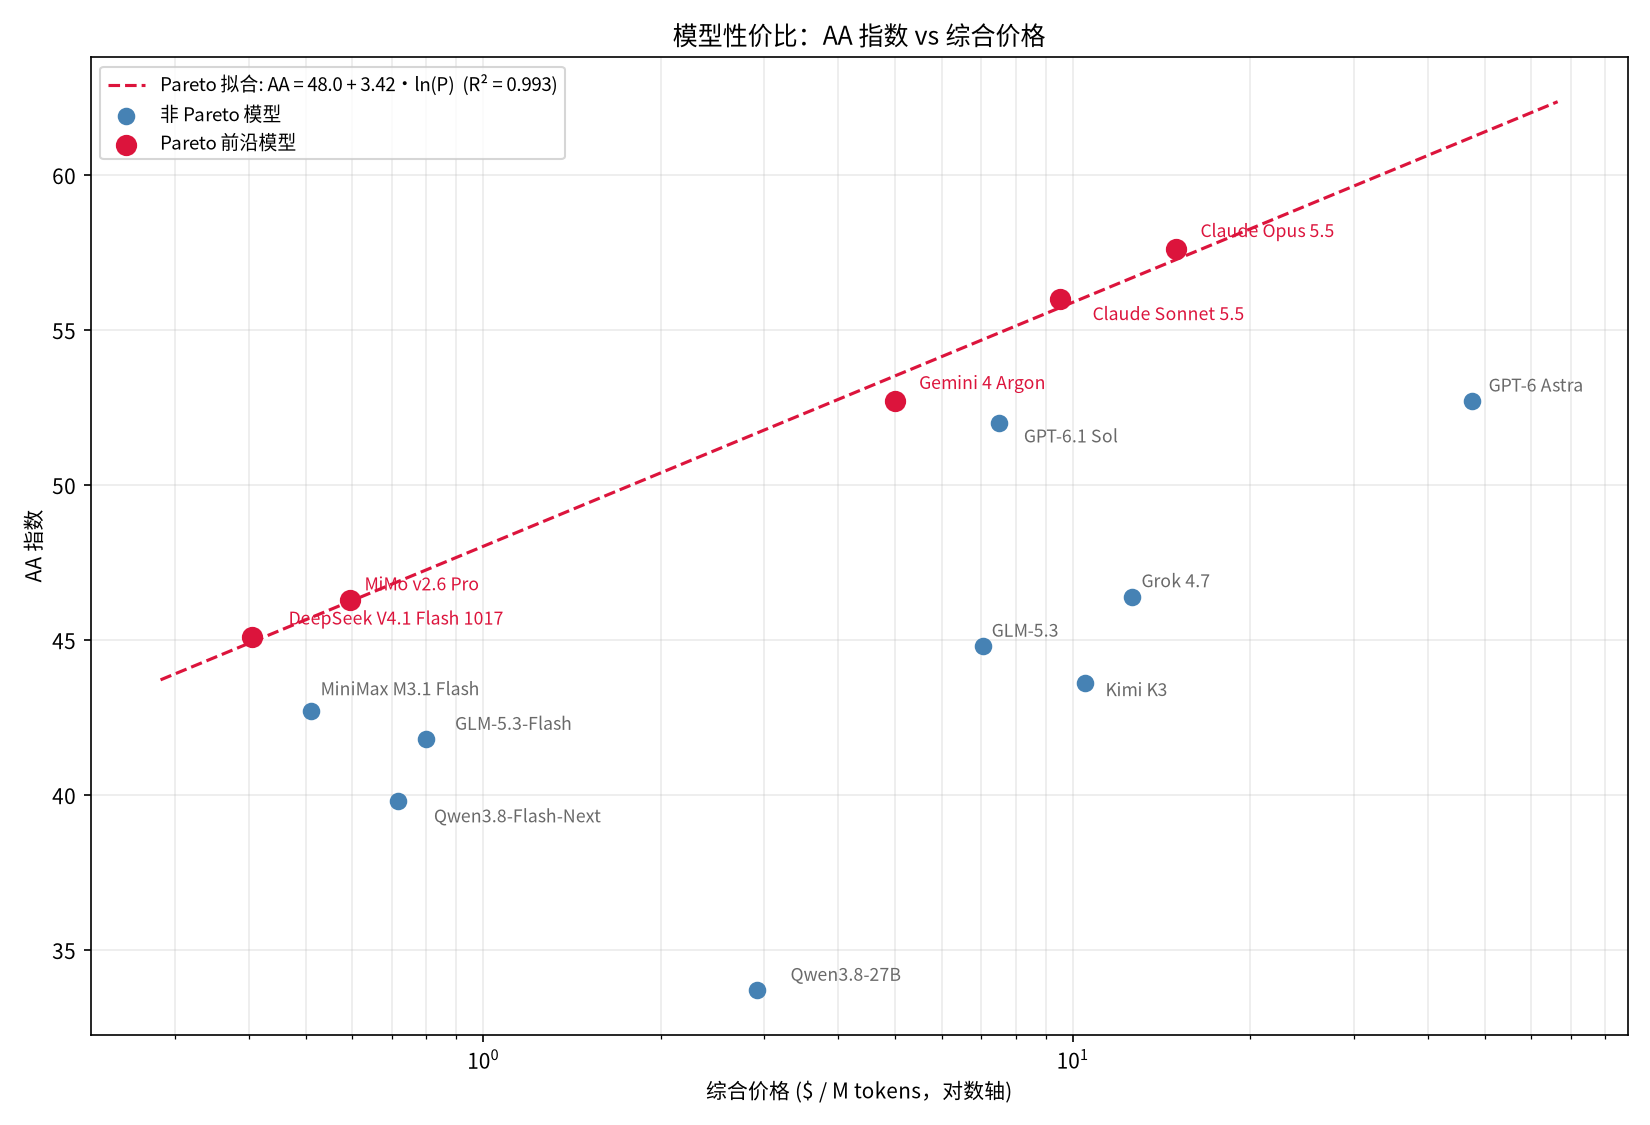
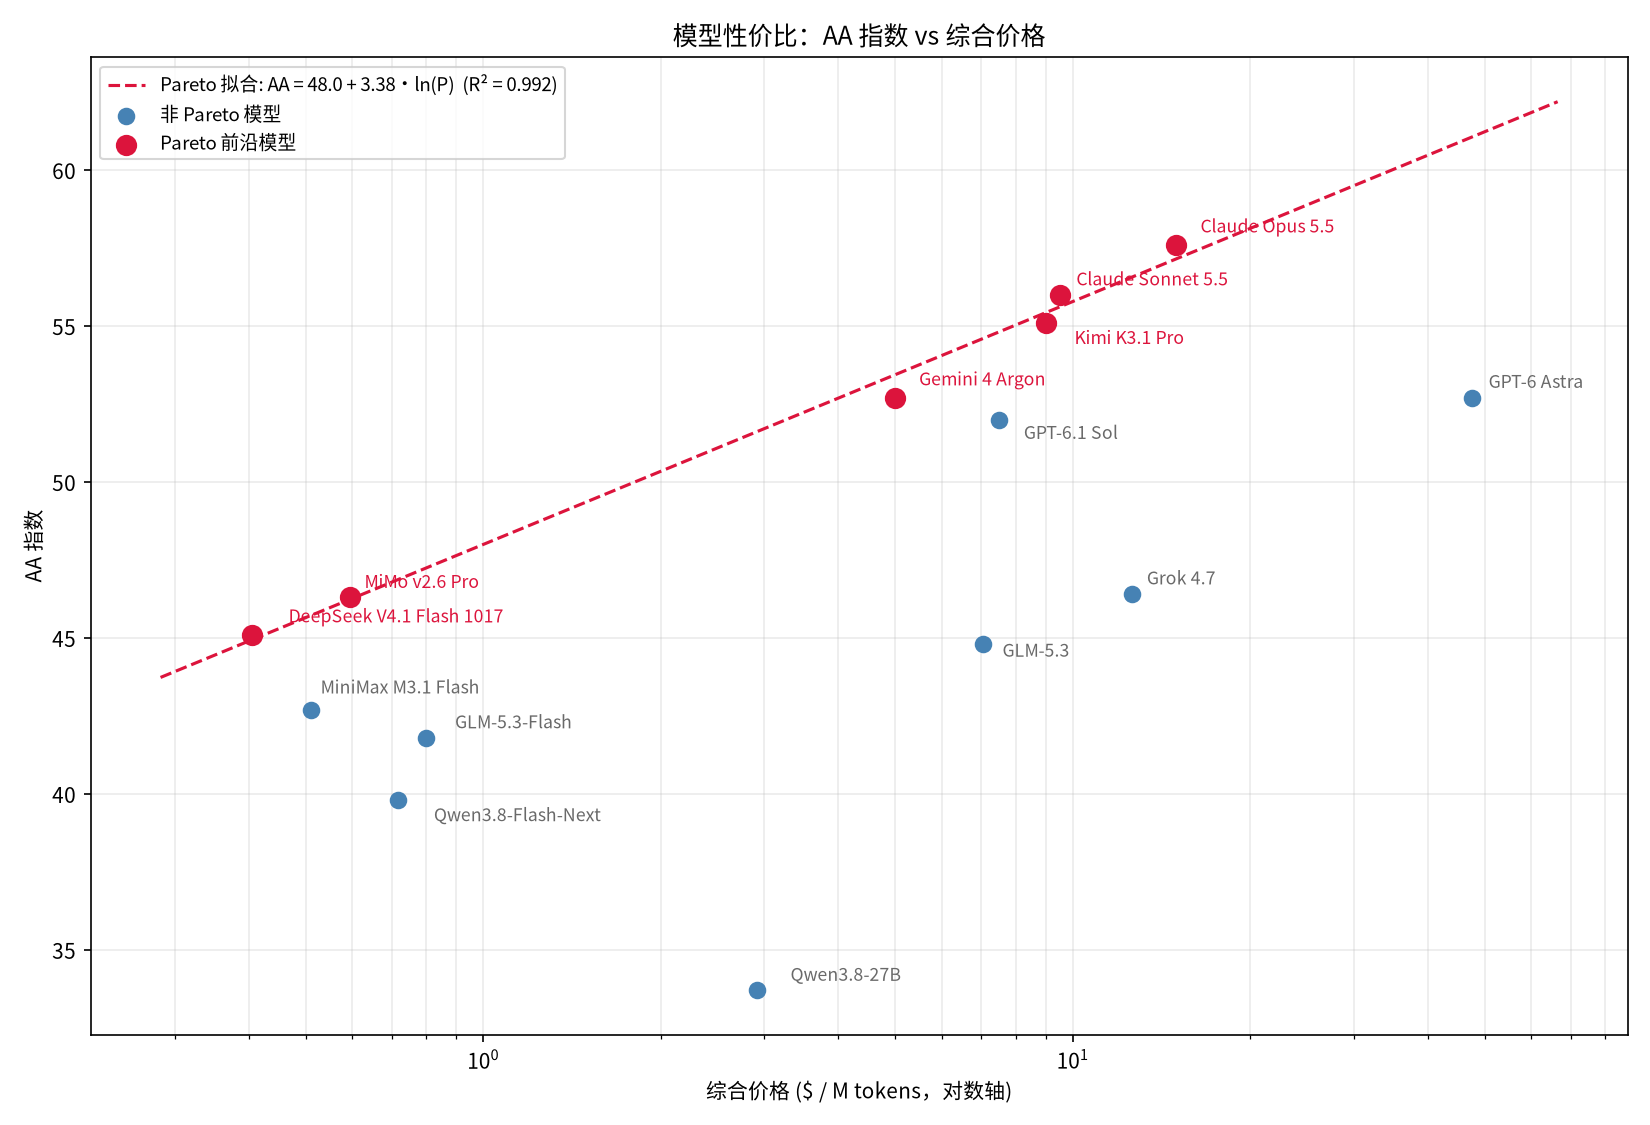
docs(comparison): replace Kimi K3 with K3.1 Pro and refresh value chart

diff --git a/comparison/plot_price_vs_aa.py b/comparison/plot_price_vs_aa.py
@@ -15,7 +15,7 @@ data = {
     "Claude Sonnet 5.5": (9.5, 56.0),
     "Gemini 4 Argon": (5, 52.7),
     "Grok 4.7": (12.6, 46.4),
-    "Kimi K3": (10.5, 43.6),
+    "Kimi K3.1 Pro": (9, 55.1),
     "MiMo v2.6 Pro": (0.594, 46.3),
     "GLM-5.3": (7.04, 44.8),
     "DeepSeek V4.1 Flash 1017": (0.405, 45.1),

diff --git a/comparison/README.md b/comparison/README.md
@@ -3,7 +3,7 @@
 数据收纳几类模型：
 
 1. 闭源最强大模型。两个：Claude Opus 5.5和Claude Sonnet 5.5。
-2. 开源最强大模型。两个：MiMo v2.6 Pro和GLM-5.3。
+2. 开源最强大模型。两个：MiMo v2.6 Pro和Kimi K3.1 Pro。
 3. 个人低成本独立部署。一个：Qwen3.8-27B。
 4. 公司可离线部署。两个：GLM-5.3-Flash和Qwen3.8-Flash-Next。
 5. 可执行任务廉价模型。两个：DeepSeek V4.1 Flash 1017和MiniMax M3.1 Flash。
@@ -24,7 +24,7 @@
 | [Claude Sonnet 5.5](https://www.anthropic.com/claude-sonnet-5-5) | 2026-09-28 | 闭 | -- | -- | V | 1M | -- |
 | [Gemini 4 Argon](https://blog.google/intl/zh-tw/products/explore-get-answers/gemini-4-argon/) | 2026-09-30 | 闭 | -- | -- | V/A | 1M | -- |
 | [Grok 4.7](https://x.ai/news/grok-4-7) | 2026-09-21 | 闭 | -- | -- | V | 500k | -- |
-| [Kimi K3](https://www.kimi.com/blog/kimi-k3) | 2026-07-16 | 开 | 2.8T | 104B | V | 1M | [权重](https://huggingface.co/moonshotai/Kimi-K3) · [GGUF](https://huggingface.co/unsloth/Kimi-K3-GGUF) |
+| [Kimi K3.1 Pro](https://www.kimi.ai/blog/kimi-k3-1-pro) | 2026-10-24 | 开 | 2.8T | 104B | V | 1M | 尚未释出，11 月 4 日前发布权重 |
 | [MiMo v2.6 Pro](https://mimo.mi.com/docs/zh-CN/news/latest/v2-6) | 2026-09-21 | 开 | 1.02T | 42B | V/A | 1M | [权重](https://huggingface.co/XiaomiMiMo/MiMo-V2.6-Pro-RL) |
 | [GLM-5.3](https://z.ai/blog/glm-5.3) | 2026-08-14 | 开 | 744B | 40B | -- | 1M | [权重](https://huggingface.co/zai-org/GLM-5.3) · [GGUF](https://huggingface.co/unsloth/GLM-5.3-GGUF) |
 | [GLM-5.3-Flash](https://z.ai/blog/glm-5.3-flash) | 2026-08-26 | 开 | 320B | 18B | V | 1M | [权重](https://huggingface.co/zai-org/GLM-5.3-Flash) · [GGUF](https://huggingface.co/unsloth/GLM-5.3-Flash-GGUF) |
@@ -42,27 +42,27 @@
 
 | 模型 | 输入价格 | 输出价格 | 缓存读取 | 缓存写入 | 综合价格 | 性价比 |
 |---|---:|---:|---:|---:|---:|---:|
-| GPT-6 Astra | \$10 | \$50 | \$1 | \$12.5 | \$47.5 | 85.6% |
-| GPT-6.1 Sol | \$2 | \$10 | \$0.1 | \$2.5 | \$7.5 | 94.2% |
+| GPT-6 Astra | \$10 | \$50 | \$1 | \$12.5 | \$47.5 | 85.7% |
+| GPT-6.1 Sol | \$2 | \$10 | \$0.1 | \$2.5 | \$7.5 | 94.1% |
 | Claude Opus 5.5 | \$4 | \$20 | \$0.2 | \$5 | \$15 | **100.0%** |
 | Claude Sonnet 5.5 | \$2 | \$10 | \$0.2 | \$2.5 | \$9.5 | **99.9%** |
 | Gemini 4 Argon | \$2 | \$10 | \$0.1 | -- | \$5 | **97.9%** |
 | Grok 4.7 | \$2 | \$6 | \$0.5 | -- | \$12.6 | 81.4% |
-| Kimi K3 | \$3 | \$15 | \$0.3 | -- | \$10.5 | 77.3% |
-| MiMo v2.6 Pro | \$0.435 | \$0.87 | \$0.0036 | -- | \$0.594 | **99.6%** |
-| GLM-5.3 | \$1.4 | \$4.4 | \$0.26 | -- | \$7.04 | 81.5% |
-| GLM-5.3-Flash | \$0.15 | \$0.5 | \$0.03 | -- | \$0.8 | 88.0% |
-| DeepSeek V4.1 Flash 1017 | \$0.30 / \$0.15 | \$1.20 / \$0.60 | \$0.006 / \$0.003 | -- | \$0.405 | **99.8%** |
-| MiniMax M3.1 Flash | \$0.15 | \$0.60 | \$0.015 | -- | \$0.51 | 92.9% |
-| Qwen3.8-Flash-Next | \$0.15 | \$0.47 | \$0.016 | \$0.2 | \$0.717 | 84.4% |
-| Qwen3.8-27B | \$0.425 | \$2.55 | \$0.085 | \$0.53125 | \$2.91125 | 64.9% |
+| Kimi K3.1 Pro | \$2 | \$10 | \$0.2 | \$2 | \$9 | **98.6%** |
+| MiMo v2.6 Pro | \$0.435 | \$0.87 | \$0.0036 | -- | \$0.594 | **99.4%** |
+| GLM-5.3 | \$1.4 | \$4.4 | \$0.26 | -- | \$7.04 | 81.4% |
+| GLM-5.3-Flash | \$0.15 | \$0.5 | \$0.03 | -- | \$0.8 | 87.8% |
+| DeepSeek V4.1 Flash 1017 | \$0.30 / \$0.15 | \$1.20 / \$0.60 | \$0.006 / \$0.003 | -- | \$0.405 | **99.6%** |
+| MiniMax M3.1 Flash | \$0.15 | \$0.60 | \$0.015 | -- | \$0.51 | 92.7% |
+| Qwen3.8-Flash-Next | \$0.15 | \$0.47 | \$0.016 | \$0.2 | \$0.717 | 84.3% |
+| Qwen3.8-27B | \$0.425 | \$2.55 | \$0.085 | \$0.53125 | \$2.91125 | 64.8% |
 
 - 不参考套餐/批量折扣/限时优惠价格，表中采用官方原价。
 - 综合价格按“0.1 × 输出价格 + 输入价格 + 20 × 缓存读取价格 + 缓存写入价格”计算。未提供缓存写入价格的 `--` 在本项计算中按 0 计。它表示实际载荷每处理 1M 输入 tokens 对应的真实成本：与这 1M 输入对应的输出、缓存读取和缓存写入量，分别按实际比例乘以各自单价后，与输入成本相加。
 - 有峰谷价格的，综合价格按峰谷价的平均数计算。
 - Gemini 4 Argon 采用 Google 公告中的优惠期价格。优惠期结束后，输入/输出价格恢复为 \$4/\$20。
 - Grok 4.7 的 prompt ≥200K 长文档位（输入/输出/缓存读取翻倍）与 2 倍价格的 fast 变体均未计入，综合价格按 <200K 标准档计算。
-- 性价比从当前表中选出“相同或更低综合价格下不存在更高 AA 指数模型”的 5 个 Pareto 前沿模型，拟合得到 `预期 AA 指数 = 48.0240 + 3.4175 × ln(综合价格)`（R² = 0.993），最后计算“实际 AA 指数 / 预期 AA 指数 × 99.4424%”。该系数为当前模型集合中最高原始性价比的倒数，使最高分恰为 100%；其余分数均落在 0–100% 区间。该拟合是当前模型集合内的相对比较，模型或价格变化后需要重新筛选 Pareto 前沿并整体重算。
+- 性价比从当前表中选出“相同或更低综合价格下不存在更高 AA 指数模型”的 6 个 Pareto 前沿模型，拟合得到 `预期 AA 指数 = 47.9951 + 3.3821 × ln(综合价格)`（R² = 0.992），最后计算“实际 AA 指数 / 预期 AA 指数 × 99.2260%”。该系数为当前模型集合中最高原始性价比的倒数，使最高分恰为 100%；其余分数均落在 0–100% 区间。该拟合是当前模型集合内的相对比较，模型或价格变化后需要重新筛选 Pareto 前沿并整体重算。
 - Pareto模型的性价比已经被加粗。
 - 价格-AA 关系图（横轴为对数综合价格，纵轴为 AA 指数，红点为 Pareto 前沿模型，红色虚线为 Pareto 拟合线）：
 
@@ -90,7 +90,7 @@
 | Claude Sonnet 5.5 (with fallback) | 61.0% | 63.6% | 71.3% | 64.5% | 31.4% | 56.0% |
 | Gemini 4 Argon | 61.8% | 57.1% | 77.5% | 57.1% | 27.1% | 52.7% |
 | Grok 4.7 | 57.4% | 24.7% | 63.5% | 43.1% | 17.7% | 46.4% |
-| Kimi K3 | 59.5% | 12.6% | 58.3% | 46.9% | 23.4% | 43.6% |
+| Kimi K3.1 Pro | 60.8% | 67.2% | 73.3% | 52.5% | 24.6% | 55.1% |
 | MiMo v2.6 Pro | 61.0% | 34.8% | 58.6% | 49.0% | 27.0% | 46.3% |
 | GLM-5.3 | 59.0% | 41.9% | 62.2% | 42.3% | 19.1% | 44.8% |
 | GLM-5.3-Flash | 51.6% | 32.8% | 60.4% | 39.9% | 15.0% | 41.8% |
@@ -99,7 +99,7 @@
 | Qwen3.8-Flash-Next | 50.6% | 25.3% | 55.9% | 38.0% | 11.1% | 39.8% |
 | Qwen3.8-27B | 46.6% | 5.6% | 48.2% | 33.9% | 5.4% | 33.7% |
 
-- 数据更新日期：2026-10-20；AA 指数版本：v4.3.2。表中 AA 指数保留一位小数。
+- 数据更新日期：2026-10-24；AA 指数版本：v4.3.2。表中 AA 指数保留一位小数。
 - MiniMax M3.1 Flash 的 SciCode 和 CritPt 当前标为 Under review。
 - 数据优先采用AA独立评测，其次采用官方模型卡/报告。两者均不存在时，参考采信第三方评价或官方估计值。
 - 闭源推理模型使用表中成绩对应的高推理档位；Claude Opus 5.5 的 AA 评测启用了默认 fallback，因此单独标注。
@@ -113,14 +113,15 @@
 - Grok被吐槽“只有NSFW是刚需”。而且这批人还在流向Qwen3.8-27B。
 - 开源里面，MiMo v2.6 Pro中评偏差。评价是“性价比高跑分漂亮，然而不能干活儿”。
 - GLM-5.3/GLM-5.3-Flash好评。前者便宜，后者可本地部署。缺点是不知为何，坚信自己是claude。
-- K3评价两极分化。主要优点是细节封神，主要缺点是贵且慢。
+- K3 评价两极分化，主要优点是细节封神，主要缺点是贵且慢；Kimi K3.1 Pro 的用户反馈待收集。
 - DeepSeek V4.1 Flash也是两极分化。速度封神，编码拉胯。而且啰里八嗦的。
 - Qwen3.8-Flash-Next意外的强。但只有一个供应商。
 - Qwen3.8-27B，低成本本地执行的唯一选择，也无需在意评价了。
 
 # 点评
 
-- 最强阵营里，Argon/Sonnet/Opus在性价比线上完美平行排列，形成一系列选择。OpenAI这边是全面拉胯。
-- 第二集群里，传统的K3/GLM-5.3逐渐被廉价模型反超。
+- 最强阵营里，Argon/K3.1/Sonnet/Opus在性价比线上完美平行排列，形成一系列选择。OpenAI这边是全面拉胯。
+- Kimi K3.1 Pro虽然是开源模型，却进入最强阵营序列，且压住了OpenAI的所有模型。
+- 第二集群里，GLM-5.3 的 AA 指数仍被部分廉价模型反超。
 - 第三集群主打高性价比。MiMo v2.6 Pro 与 DeepSeek V4.1 Flash 1017 的性价比接近，AA 指数也超过了部分第二集群选手。当然，评价就是另一回事儿了，用之前收集一下市场反馈。
 - Qwen3.8-27B自己一桌吃饭。
